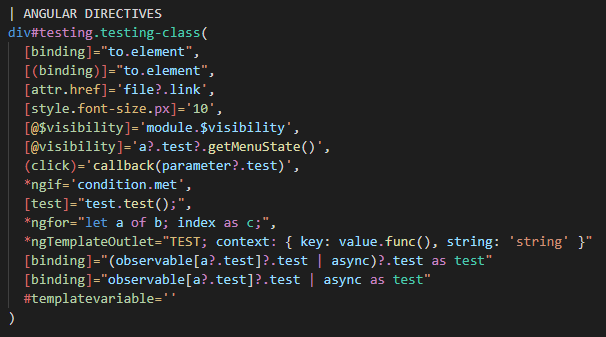
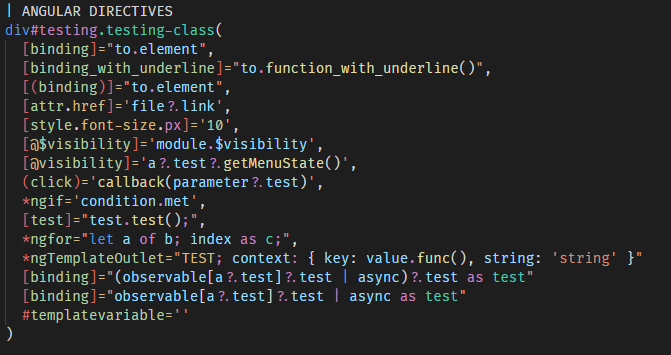
Fixed an issue with angular attributes with underlines

Changed region(s): [[0.0, 0.0, 0.9802, 0.9199], [0.0, 0.9199, 0.0297, 0.9792]]

diff --git a/CHANGELOG.md b/CHANGELOG.md
@@ -1,5 +1,8 @@
 # Change Log
 
+# 0.2.8 (24/05/2019)
+- Fixed an issue with angular attributes with underlines
+
 # 0.2.7 (05/02/2019)
 - Added highlighting for uppercase characters inside attributes (they were white)
 
